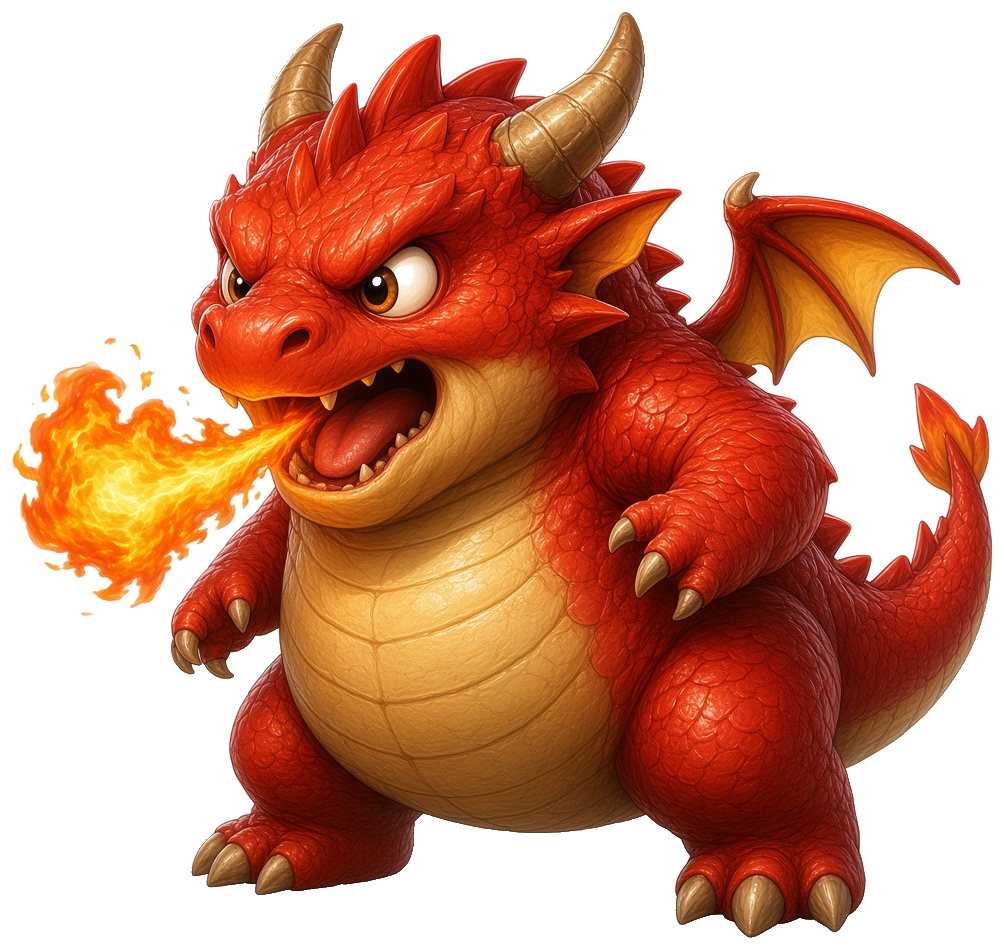
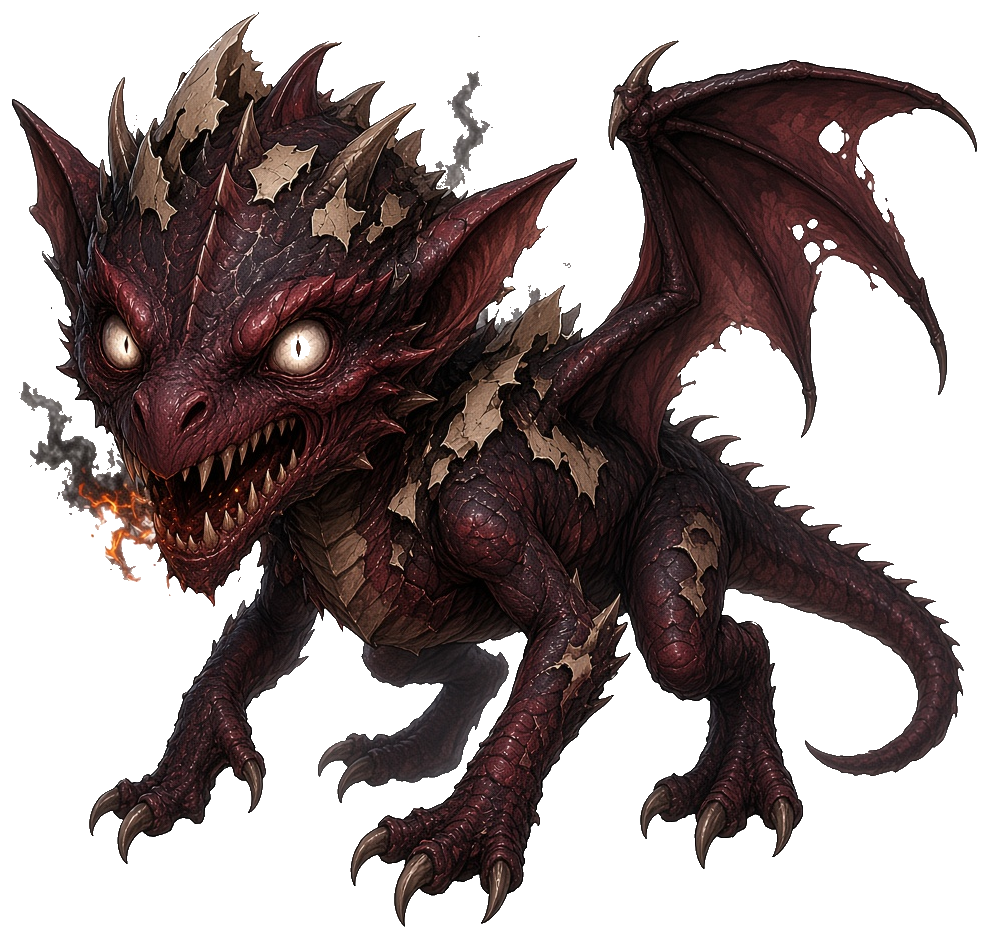
ちびドラゴンの絵を、かっこよく不気味なホラー調の赤ちゃんドラゴンに描き直し

diff --git a/index.html b/index.html
@@ -5189,9 +5189,9 @@
               <figure><img class="enemy-ref" src="enemy-slime.png?v=4" alt=""><figcaption>スライム</figcaption></figure>
               <figure><img class="enemy-ref" src="enemy-goblin.png?v=3" alt=""><figcaption>ゴブリン</figcaption></figure>
               <figure><img class="enemy-ref" src="enemy-minotaur.png?v=4" alt=""><figcaption>ミノタウロス</figcaption></figure>
-              <figure><img class="enemy-ref" src="enemy-dragon.png?v=1" alt=""><figcaption>ちびドラゴン（準備中）</figcaption></figure>
+              <figure><img class="enemy-ref" src="enemy-dragon.png?v=2" alt=""><figcaption>ちびドラゴン（準備中）</figcaption></figure>
             </div>
-            <p class="sheet-cap">ちびドラゴンは体力30。アタック+1枚、ブロック+1枚、ファイアーボール、ファイアソード、ファイアパラダイス各1枚。絵はできた。ランクと出る場所、アタック+とブロック+の数字が決まるまで、戦闘には出ない。敵はみな左を向く。</p>
+            <p class="sheet-cap">ちびドラゴンは体力30。アタック+1枚、ブロック+1枚、ファイアーボール、ファイアソード、ファイアパラダイス各1枚。絵は、赤ちゃんドラゴンだがかわいくはせず、かっこよく不気味（ホラー）に。黒ずんだ深紅の鱗、白く光る目、針のような歯、口から黒い煙と火の粉、頭と背に割れた卵の殻、破れた翼。ランクと出る場所、アタック+とブロック+の数字が決まるまで、戦闘には出ない。敵はみな左を向く。</p>
             <button type="button" data-action="title">タイトルへ</button>
           </div>
         </div>`;
